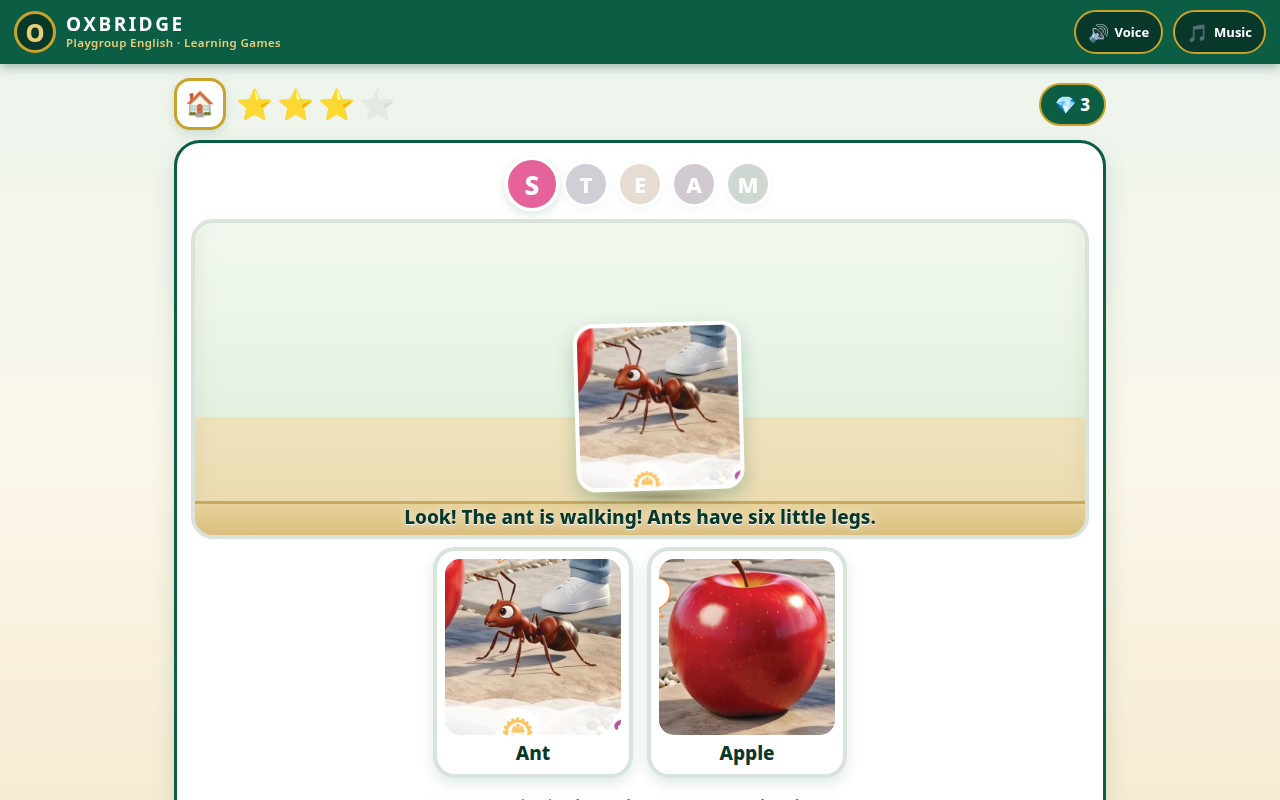
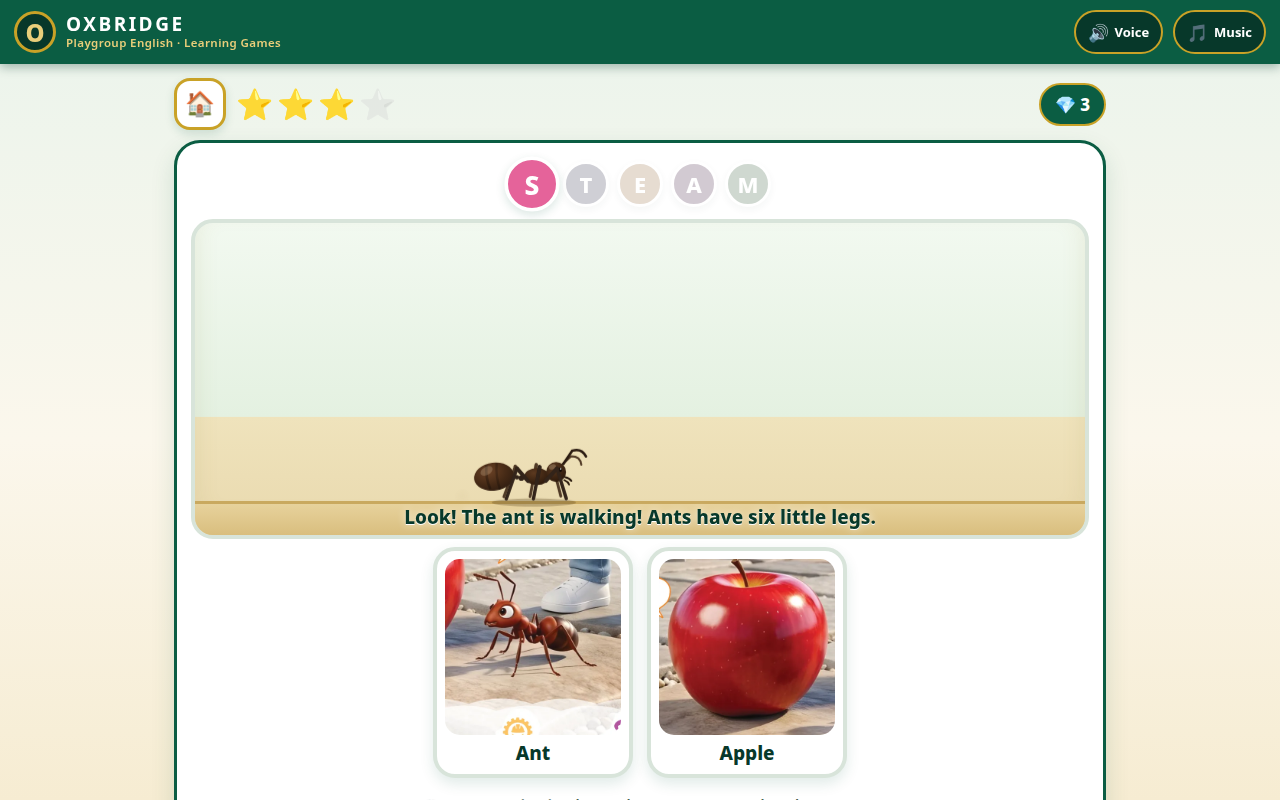
Ant performance: living ant character, real-ant movement

Changed region(s): [[0.375, 0.4062, 0.5938, 0.6562]]

diff --git a/index.html b/index.html
@@ -240,6 +240,12 @@ main{max-width:960px;margin:0 auto;padding:14px 14px 30px}
   position:absolute;left:10%;right:10%;bottom:-13px;height:15px;z-index:-1;
   background:radial-gradient(ellipse at center,rgba(80,55,20,.38),transparent 70%);
 }
+/* the living ant — a drawn character performs; the book picture is
+   never moved (owner's correction). JS drives it with translate3d. */
+.actor.antactor{
+  left:0;bottom:24px;margin-left:0;width:min(148px,40vw);will-change:transform;
+}
+.antsvg{width:100%;height:auto;display:block;overflow:visible}
 .perflabel{
   position:absolute;left:0;right:0;bottom:5px;z-index:4;text-align:center;
   font-size:19px;font-weight:800;color:var(--emerald-deep);
@@ -713,6 +719,10 @@ async function steamObserve(cell){
    crops are never altered — every motion is transforms on the crop —
    except the growth sequences, which are flat explanatory diagrams in
    the book's colour family and end with the book's own fruit picture.
+   And one owner's correction on top: the ANT is not its picture moved
+   at all — the book ant stays still as the tap card while a DRAWN
+   living ant (perfAnt, data flag `live`) walks on stage like a real
+   ant: tripod gait, stop-start scurries, antennae exploring.
    Performances run UNDER the host's spoken line (same slow voice and
    speech gates); after a performance the hero can be tapped again to
    replay it ("Watch again"). Mapping for all 45 observe cells lives in
@@ -930,6 +940,166 @@ const PERF_ANIM = {
     await Promise.all([A(bob, { transform: ['scale(1)', 'scale(1.06)', 'scale(1)'] }, { duration: 1150 }), waitP(1150)]);
   }
 };
+/* ================= the LIVING ANT (owner's correction) =================
+   "In ant moving use any ant like in my message 🐜 and moves like a
+   real ant on the screen. Don't move picture of ant." So the book ant
+   picture stays STATIC as the tap card, and on stage a drawn ant —
+   head, thorax, banded abdomen, six jointed legs, two elbowed
+   antennae — performs like a real ant:
+   · TRIPOD GAIT — legs step in two alternating tripods (front+hind on
+     one side with the middle leg opposite), phase locked to distance
+     travelled, so the legs are still whenever the ant is still;
+   · STOP-START SCURRY — real ants burst, pause, burst: short scurries
+     along a slightly wandering path, brief pauses where it stops,
+     sweeps its antennae (faster — exploring) and turns a little;
+   · body pitches subtly with speed, soft shadow rides underneath;
+   · it ends facing the child with a happy antennae wave.          */
+const ANT_LEGS = [
+  // document order: far side first (behind the body), then near side.
+  // tripod 0 = A (front-near + mid-far + hind-near), 1 = B (the rest).
+  { hip: [112, 77], knee: [126, 60], foot: [136, 101], side: 0, tripod: 1 },
+  { hip: [101, 79], knee: [103, 58], foot: [94, 101],  side: 0, tripod: 0 },
+  { hip: [89, 77],  knee: [75, 60],  foot: [59, 101],  side: 0, tripod: 1 },
+  { hip: [116, 80], knee: [131, 63], foot: [143, 104], side: 1, tripod: 0 },
+  { hip: [104, 82], knee: [108, 61], foot: [99, 104],  side: 1, tripod: 1 },
+  { hip: [92, 80],  knee: [77, 63],  foot: [62, 104],  side: 1, tripod: 0 }
+];
+function antSVG(){
+  const leg = L => {
+    const far = !L.side, col = far ? '#503a26' : '#33241a';
+    return `<g class="antleg-swing"><path d="M${L.hip[0]} ${L.hip[1]} L${L.knee[0]} ${L.knee[1]}"
+        stroke="${col}" stroke-width="${far ? 4.4 : 5.2}" stroke-linecap="round" fill="none"/>
+      <g class="antleg-bend"><path d="M${L.knee[0]} ${L.knee[1]} L${L.foot[0]} ${L.foot[1]}"
+        stroke="${col}" stroke-width="${far ? 3.8 : 4.6}" stroke-linecap="round" fill="none"/></g></g>`;
+  };
+  const antenna = (base, mid, tip, far) => `
+    <g class="ant-ant"><path d="M${base[0]} ${base[1]} L${mid[0]} ${mid[1]} Q${(mid[0] + tip[0]) / 2 + 4} ${mid[1] - 3} ${tip[0]} ${tip[1]}"
+      stroke="${far ? '#503a26' : '#2a1a10'}" stroke-width="${far ? 2.8 : 3.4}" stroke-linecap="round" fill="none"/></g>`;
+  return `<svg class="antsvg" viewBox="0 0 200 120" role="img" aria-label="A real ant walking">
+    <defs>
+      <radialGradient id="antAb" cx="38%" cy="30%" r="85%">
+        <stop offset="0%" stop-color="#6b4226"/><stop offset="55%" stop-color="#452a16"/><stop offset="100%" stop-color="#2a1a10"/>
+      </radialGradient>
+      <radialGradient id="antHd" cx="38%" cy="30%" r="85%">
+        <stop offset="0%" stop-color="#5d3a20"/><stop offset="100%" stop-color="#241408"/>
+      </radialGradient>
+    </defs>
+    <ellipse cx="100" cy="109" rx="57" ry="5.5" fill="rgba(80,55,20,.30)"/>
+    <g class="antflip"><g class="antbody">
+      ${ANT_LEGS.filter(l => !l.side).map(leg).join('')}
+      ${antenna([136, 60], [147, 44], [163, 52], true)}
+      <g transform="rotate(-7 46 74)"><ellipse cx="46" cy="74" rx="27" ry="19" fill="url(#antAb)"/>
+        <path d="M38 57 q-4 17 1 33" stroke="rgba(0,0,0,.28)" stroke-width="3.4" fill="none"/>
+        <path d="M52 56 q-4 18 0 36" stroke="rgba(0,0,0,.22)" stroke-width="3.2" fill="none"/>
+        <ellipse cx="37" cy="65" rx="9" ry="5.5" fill="rgba(255,235,200,.20)" transform="rotate(-24 37 65)"/></g>
+      <circle cx="83" cy="76" r="3.8" fill="#33241a"/><circle cx="77" cy="75" r="3" fill="#33241a"/>
+      <ellipse cx="104" cy="74" rx="17" ry="11.5" fill="url(#antHd)"/>
+      <circle cx="130" cy="68" r="13.5" fill="url(#antHd)"/>
+      <ellipse cx="125" cy="61" rx="5" ry="3.4" fill="rgba(255,235,200,.22)" transform="rotate(-20 125 61)"/>
+      <circle cx="135" cy="65" r="3.1" fill="#120a05"/>
+      <circle cx="136.2" cy="63.8" r="1.1" fill="#fff" opacity=".85"/>
+      <path d="M142 75 q6 1 8.5 5" stroke="#241408" stroke-width="2.6" fill="none" stroke-linecap="round"/>
+      <path d="M141 79 q5 2 6.5 6" stroke="#241408" stroke-width="2.4" fill="none" stroke-linecap="round"/>
+      ${antenna([140, 57], [153, 40], [171, 49], false)}
+      ${ANT_LEGS.filter(l => l.side).map(leg).join('')}
+    </g></g>
+  </svg>`;
+}
+function perfAnt(slot){
+  return new Promise(resolve => {
+    slot.innerHTML = `<div class="actor antactor">${antSVG()}</div>`;
+    const unit = slot.firstElementChild, svg = unit.querySelector('svg');
+    const flipG = svg.querySelector('.antflip'), bodyG = svg.querySelector('.antbody');
+    const legs = [...svg.querySelectorAll('.antleg-swing')].map((el, i) => ({
+      el, bend: el.querySelector('.antleg-bend'),
+      hip: ANT_LEGS[i].hip, knee: ANT_LEGS[i].knee, tripod: ANT_LEGS[i].tripod }));
+    const ants = [...svg.querySelectorAll('.ant-ant')].map((el, i) => ({
+      el, base: i === 0 ? [136, 60] : [140, 57] }));
+    // choreography: scurry / pause / turn beats, ~10 s in all.
+    // positions are fractions of the free travel width.
+    const TL = [
+      { t: 'go', to: .36, dur: 1500 }, { t: 'pause', dur: 1200 },
+      { t: 'go', to: .70, dur: 1500 }, { t: 'pause', dur: 900 },
+      { t: 'turn', dur: 320 },         { t: 'go', to: .30, dur: 1700 },
+      { t: 'pause', dur: 800 },        { t: 'turn', dur: 320 },
+      { t: 'go', to: .54, dur: 1000 }, { t: 'wave', dur: 850 } ];
+    let total = 0, cur = .05;
+    for (const s of TL){ s.start = total; total += s.dur; if (s.t === 'go'){ s.from = cur; cur = s.to; } }
+    const easeIO = p => p < .5 ? 4 * p * p * p : 1 - Math.pow(-2 * p + 2, 3) / 2;
+    let raf = 0, t0 = null, lastT = 0, lastX = null;
+    let phase = 0, dist = 0, sf = 0, flip = 1, antPh = 0, antFreq = .85, antAmp = 1, dustAt = 0;
+    const frame = now => {
+      if (!slot.contains(unit)){ cancelAnimationFrame(raf); resolve(); return; }
+      if (t0 === null){ t0 = now; lastT = now; }
+      const el = now - t0, dt = Math.min(50, now - lastT); lastT = now;
+      if (el >= total){
+        unit.style.transform = `translate3d(${cur * (slot.clientWidth - unit.clientWidth - 6)}px,0,0)`;
+        resolve(); return;
+      }
+      const seg = TL.find(s => el >= s.start && el < s.start + s.dur);
+      const p = (el - seg.start) / seg.dur;
+      const maxX = Math.max(60, slot.clientWidth - unit.clientWidth - 6);
+      let xF = cur, targetSf = 0, freqT = .85, ampT = 1, pitch = 0, bobY = 0, wiggle = 0;
+      if (seg.t === 'go'){
+        xF = seg.from + (seg.to - seg.from) * easeIO(p);
+        freqT = .85;
+      } else if (seg.t === 'pause'){
+        const prev = TL[TL.indexOf(seg) - 1];
+        xF = prev && prev.t === 'go' ? prev.to : cur;
+        freqT = 1.55; ampT = 1.45;                       // exploring!
+        wiggle = Math.sin(el * .0045) * 2.4;             // little heading turns
+      } else if (seg.t === 'turn'){
+        const prev = TL[TL.indexOf(seg) - 1];
+        xF = prev && prev.t === 'go' ? prev.to : cur;
+        flip = (seg.fromFlip || (seg.fromFlip = flip)) + ((seg.toFlip ?? (seg.toFlip = -flip)) - seg.fromFlip) * easeIO(p);
+        phase += dt * .004; targetSf = .45;
+      } else if (seg.t === 'wave'){
+        freqT = 1.3; ampT = 2.1; pitch = -5.5;          // head up, big wave
+      }
+      const x = xF * maxX;
+      if (lastX !== null && dt > 0){
+        const dx = Math.abs(x - lastX);
+        phase += dx / 21 * Math.PI;                     // gait locked to ground covered
+        dist += dx;
+        if (seg.t === 'go'){
+          const avgV = Math.abs(seg.to - seg.from) * maxX / seg.dur;
+          if (avgV > 0) targetSf = Math.min(1, (dx / dt) / (avgV * 1.5));
+        }
+      }
+      lastX = x;
+      sf += (targetSf - sf) * .18;
+      antFreq += (freqT - antFreq) * .06;
+      antAmp += (ampT - antAmp) * .08;
+      antPh += dt * .001 * antFreq * Math.PI * 2;
+      // legs: two tripods in anti-phase; swing amplitude follows speed,
+      // tibia folds a little as each leg swings forward (the lift).
+      for (const L of legs){
+        const ph = phase + L.tripod * Math.PI;
+        const sw = Math.sin(ph) * 17 * sf;
+        const bd = Math.max(0, Math.sin(ph - 1.1)) * 15 * sf;
+        L.el.setAttribute('transform', `rotate(${sw.toFixed(2)} ${L.hip[0]} ${L.hip[1]})`);
+        L.bend.setAttribute('transform', `rotate(${(-bd).toFixed(2)} ${L.knee[0]} ${L.knee[1]})`);
+      }
+      ants.forEach((aN, i) => {
+        const rot = Math.sin(antPh + i * 1.9) * (i ? 11 : 13) * antAmp;
+        aN.el.setAttribute('transform', `rotate(${rot.toFixed(2)} ${aN.base[0]} ${aN.base[1]})`);
+      });
+      if (seg.t === 'go'){ pitch = -1.6 * sf; bobY = -Math.abs(Math.sin(phase)) * 1.8 * sf; wiggle = Math.sin(dist * .045) * 2.2 * sf; }
+      bodyG.setAttribute('transform', `rotate(${(pitch + wiggle).toFixed(2)} 100 84) translate(0 ${bobY.toFixed(2)})`);
+      flipG.setAttribute('transform', `translate(100 0) scale(${flip.toFixed(3)} 1) translate(-100 0)`);
+      unit.style.transform = `translate3d(${x.toFixed(1)}px,${seg.t === 'go' ? (Math.sin(p * Math.PI) * -3).toFixed(1) : 0}px,0)`;
+      if (sf > .55 && el - dustAt > 280){
+        dustAt = el;
+        const c = relC(unit, slot);
+        const d = fxSpawn(slot, 'dust', { left: (c.cx - flip * c.w * .32 - 8) + 'px', top: (c.bottom - 16) + 'px' });
+        A(d, [{ transform: 'scale(.4)', opacity: .5 }, { transform: 'scale(1.3) translateY(-8px)', opacity: 0 }], { duration: 650 })
+          .then(() => d.remove());
+      }
+      raf = requestAnimationFrame(frame);
+    };
+    raf = requestAnimationFrame(frame);
+  });
+}
 /* rain falls over the static book page (U Science) */
 async function perfRain(slot, L){
   slot.innerHTML = `<img class="perfbg" src="${L.pageImg}" alt="Your book page">`;
@@ -1035,6 +1205,11 @@ async function runPerformance(slot, label, p, L){
   const w = p.page ? null : wordObj(p.img);
   const src = p.page ? L.pageImg : w.img;
   const say = p.say || (PERF_SAY[p.do] && w ? PERF_SAY[p.do](w.say) : null);
+  if (p.live){ /* the living ant: drawn character, picture never moves */
+    label.textContent = say || '';
+    await Promise.all([perfAnt(slot), say ? Voice.say(say) : Promise.resolve(), waitP(900)]);
+    return;
+  }
   const round = p.do === 'roll' || p.do === 'spin';
   slot.innerHTML = `<div class="actor${round ? ' round' : ''}${p.page ? ' wide' : ''}">
       <div class="flip"><div class="bob"><img src="${src}" alt="${w ? w.word : 'Your book page'}"></div></div>

diff --git a/data.js b/data.js
@@ -52,6 +52,7 @@ window.GAME_DATA = {
       {
        "img": "ant",
        "do": "walk",
+       "live": true,
        "say": "Look! The ant is walking! Ants have six little legs."
       },
       {

diff --git a/build/verify-perform.py b/build/verify-perform.py
@@ -1,7 +1,8 @@
 #!/usr/bin/env python3
 """Play-verify the STEAM Perform upgrade: full Letter A playthrough on
 desktop (stubbed speechSynthesis, records spoken lines) driving the new
-perform heroes one at a time — ant walk (screenshot mid-walk), apple
+perform heroes one at a time — the living ant (screenshots mid-scurry
+and mid-pause; the drawn ant performs, the book picture never moves), apple
 growth (screenshot at the big-tree stage), plus one Watch-again replay —
 and a second full playthrough on a 390px mobile viewport with the real
 VOICE toggle OFF (performances must still run and complete).
@@ -84,8 +85,10 @@ def drive_steam(page, shots=False):
                 idx = hero.get_attribute('data-perf')
                 hero.click()
                 if shots and cell_i == 0 and idx == '0':
-                    page.wait_for_timeout(1700)  # ant mid-walk
+                    page.wait_for_timeout(1400)  # living ant mid-scurry
                     page.screenshot(path='verify/shot-perf-ant-walk.png')
+                    page.wait_for_timeout(900)   # ant paused, antennae exploring
+                    page.screenshot(path='verify/shot-ant-pause.png')
                 if shots and cell_i == 0 and idx == '1':
                     page.wait_for_function(
                         "() => document.querySelector('#perfLabel')"

diff --git a/build/perf-map.py b/build/perf-map.py
@@ -34,6 +34,10 @@ Every observe cell gets a `perf` list (one entry per hero picture):
              identify beat rather than an observable process
   say     optional spoken line override during the performance
   variant / fruit: archetype parameters
+  live    True only for the A ant (owner's correction, 2026-11-04):
+          "Don't move picture of ant" — the book picture stays still
+          as the tap card and a DRAWN living ant performs on stage
+          instead (engine: perfAnt in index.html, keyed on this flag).
 
 apply_perf(data) mutates the parsed GAME_DATA dict in place and returns
 a Counter of archetypes used (counted per hero).
@@ -43,7 +47,7 @@ PERF = {
     # A Science is the owner's own pair of examples: the ant walks, and
     # the apple's growth is performed stage by stage.
     ('a', 'Science'): [
-        {'img': 'ant', 'do': 'walk',
+        {'img': 'ant', 'do': 'walk', 'live': True,
          'say': 'Look! The ant is walking! Ants have six little legs.'},
         {'img': 'apple', 'do': 'grow-tree', 'fruit': 'apple'},
     ],
